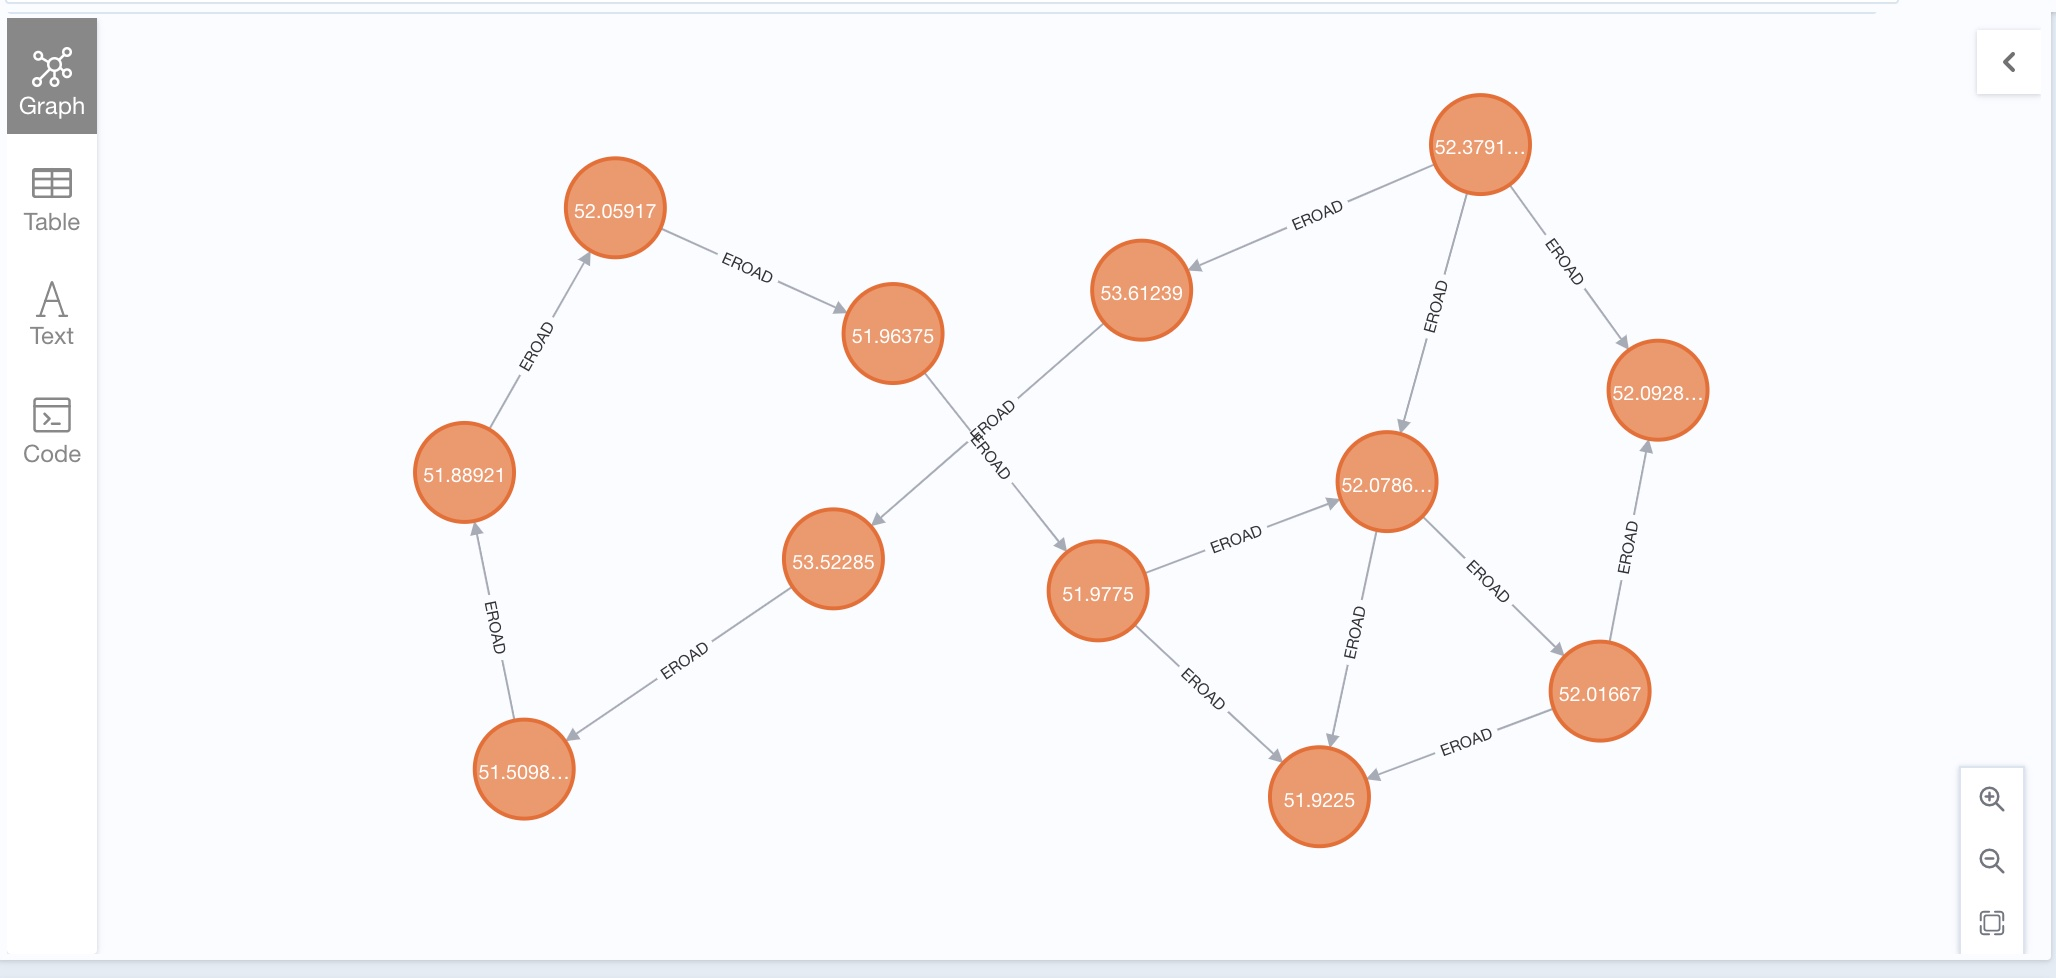
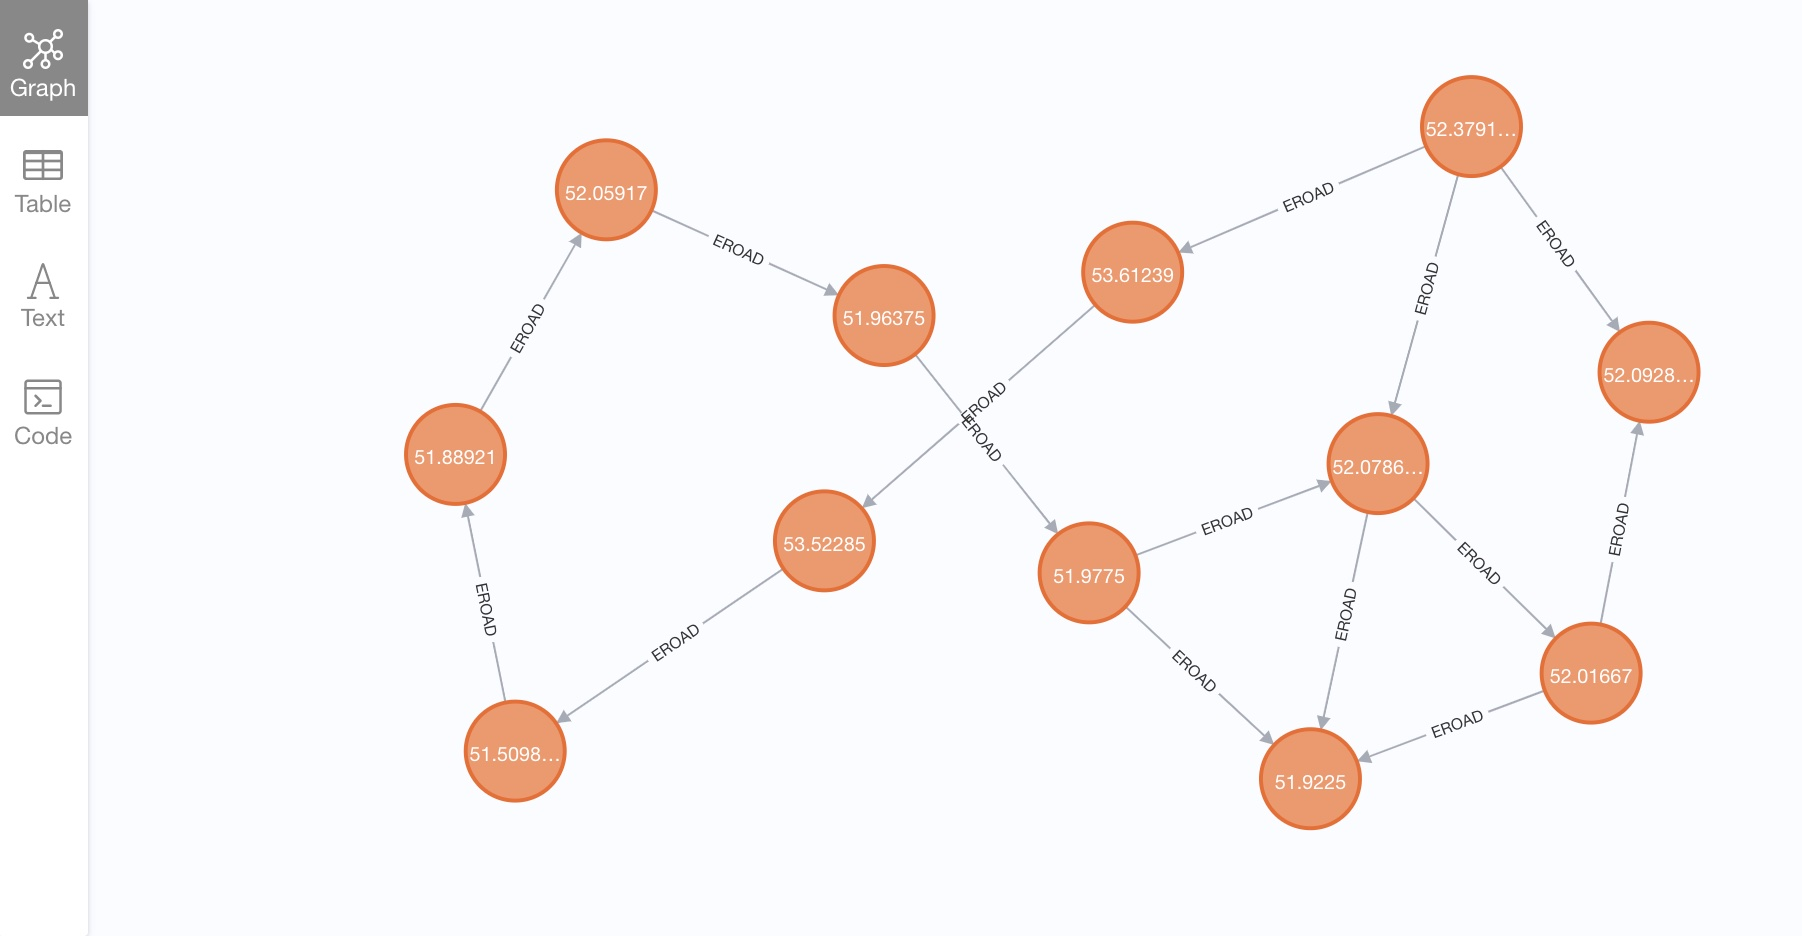
replace neo4j transport data image and adjust the image size

diff --git a/README.md b/README.md
@@ -12,4 +12,4 @@
 > docker run -d --name neo4j_db -p 7474:7474 -p 7687:7687 -v /tmp/neo4j/data:/data -v /tmp/neo4j/logs:/logs -v /tmp/neo4j/conf:/var/lib/neo4j/conf -v /tmp/neo4j/import:/var/lib/neo4j/import -v /tmp/neo4j/plugins:/plugins --env NEO4J_AUTH=neo4j/password neo4j
 ```
 图计算平台使用`apache-spark 3.0`，使用`pyspark`并基于`graphframe-0.8`组件进行图计算。基础数据点、边表基于`csv`文件，放在代码仓库`dataset`的文件夹下，基础数据导入`Neo4j`后，数据展示如下：
-<img src="dataset/doc_reference/neo4j_transport_data.jpg" alt="neo4j_transport_data" style="zoom:50%;" />
+<img src="dataset/doc_reference/neo4j_transport_data.jpg" alt="neo4j_transport_data" width="75%" align=center />
